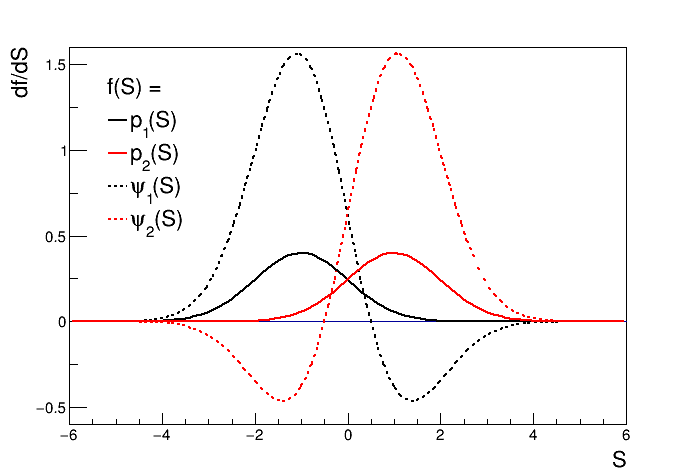
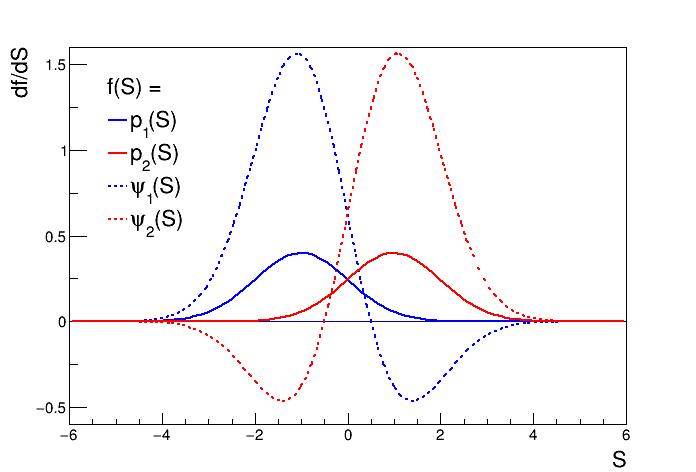
fix

diff --git a/gaus2.C b/gaus2.C
@@ -41,10 +41,10 @@ int main(){
   ff1 = prova.GetProbabilityDensityStar(0);
   ff2 = prova.GetProbabilityDensityStar(1);
 
-  f1->SetLineColor(1);
+  f1->SetLineColor(4);
   f2->SetLineColor(2);
 
-  ff1->SetLineColor(1);
+  ff1->SetLineColor(4);
   ff2->SetLineColor(2);
 
   ff1->SetLineStyle(2);
